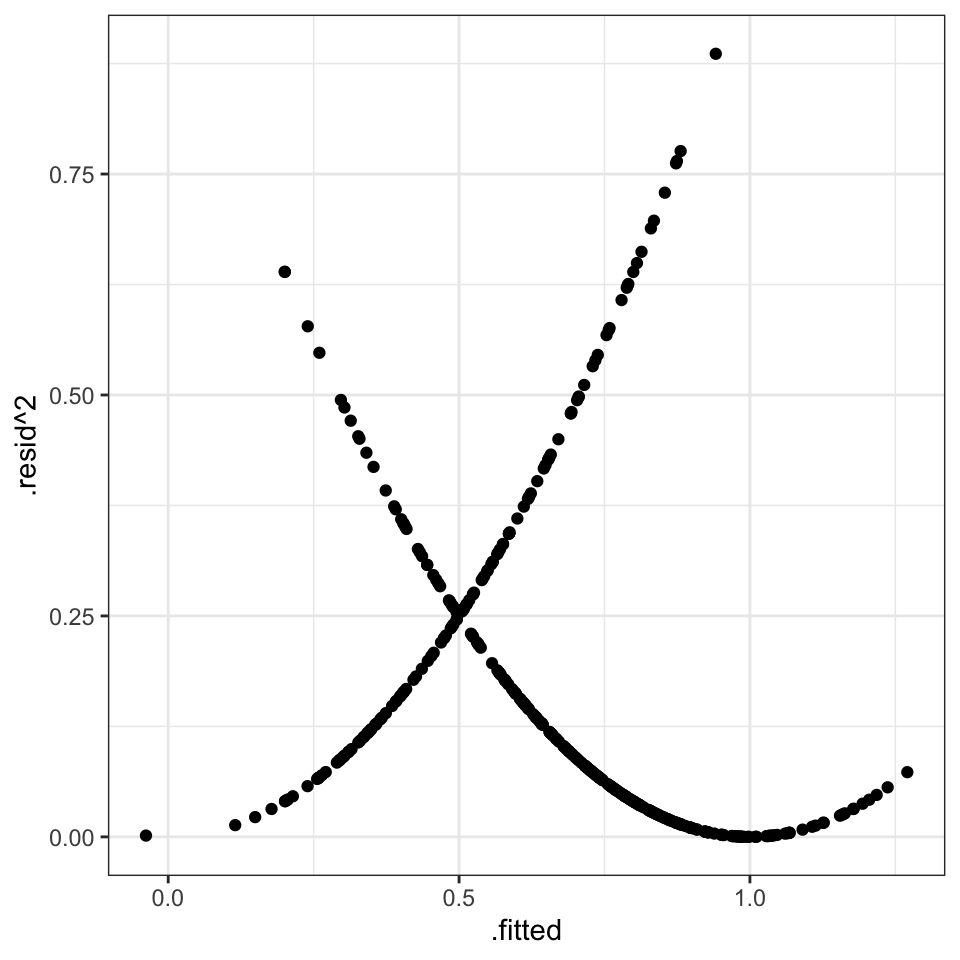
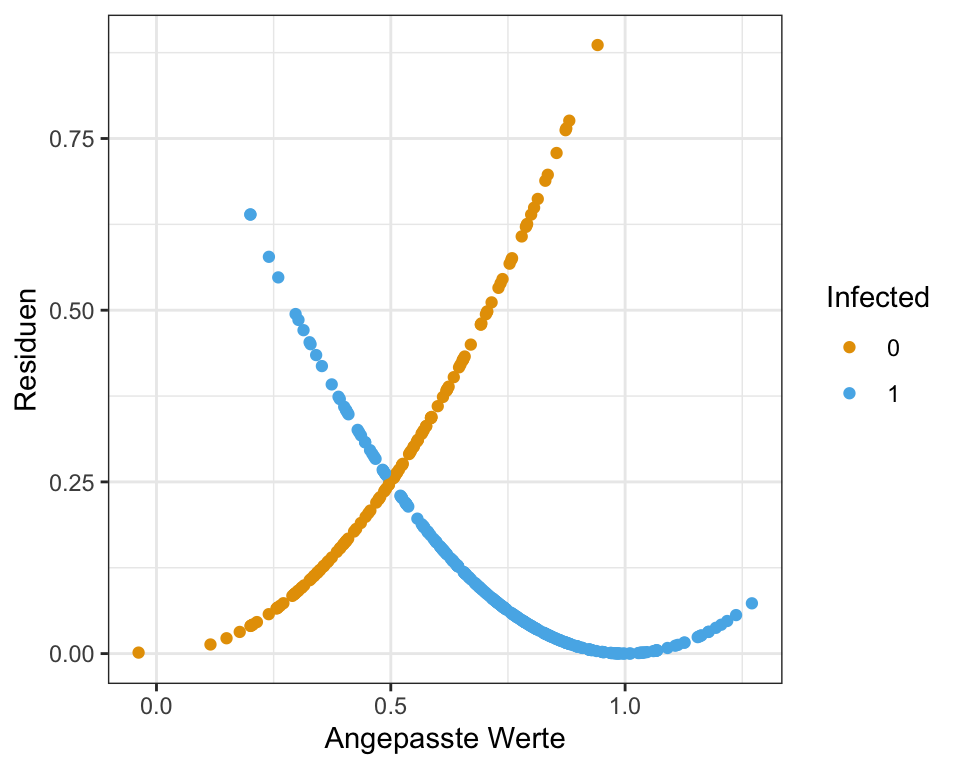
added text

diff --git a/docs/stat-modeling-prob-model.html b/docs/stat-modeling-prob-model.html
@@ -663,7 +663,7 @@ pre > code.sourceCode > span > a:first-child::before { text-decoration: underlin
   </div>
   
 
-</header><p><em>Version vom August 27, 2023 um 21:58:18</em></p>
+</header><p><em>Version vom August 28, 2023 um 13:33:11</em></p>
 <div class="quarto-figure quarto-figure-center">
 <figure class="figure"><p><img src="images/caution.png" class="img-fluid figure-img" style="width:50.0%"></p>
 </figure>
@@ -674,7 +674,8 @@ pre > code.sourceCode > span > a:first-child::before { text-decoration: underlin
 <span class="header-section-number">45.1</span> Genutzte R Pakete</h2>
 <p>Wir wollen folgende R Pakete in diesem Kapitel nutzen.</p>
 <div class="cell">
-<div class="sourceCode" id="cb1"><pre class="downlit sourceCode r code-with-copy"><code class="sourceCode R"><span><span class="fu">pacman</span><span class="fu">::</span><span class="fu"><a href="https://rdrr.io/pkg/pacman/man/p_load.html">p_load</a></span><span class="op">(</span><span class="va">tidyverse</span>, <span class="va">magrittr</span>, <span class="va">sandwich</span>, <span class="va">lmtest</span>, <span class="va">emmeans</span>, <span class="va">multcomp</span>,</span>
+<div class="sourceCode" id="cb1"><pre class="downlit sourceCode r code-with-copy"><code class="sourceCode R"><span><span class="fu">pacman</span><span class="fu">::</span><span class="fu"><a href="https://rdrr.io/pkg/pacman/man/p_load.html">p_load</a></span><span class="op">(</span><span class="va">tidyverse</span>, <span class="va">magrittr</span>, <span class="va">sandwich</span>, <span class="va">lmtest</span>, </span>
+<span>               <span class="va">emmeans</span>, <span class="va">multcomp</span>, <span class="va">see</span>,</span>
 <span>               <span class="va">performance</span>, <span class="va">broom</span>, <span class="va">conflicted</span><span class="op">)</span></span>
 <span><span class="fu">conflict_prefer</span><span class="op">(</span><span class="st">"select"</span>, <span class="st">"dplyr"</span><span class="op">)</span></span>
 <span><span class="fu">conflict_prefer</span><span class="op">(</span><span class="st">"filter"</span>, <span class="st">"dplyr"</span><span class="op">)</span></span>
@@ -688,7 +689,7 @@ pre > code.sourceCode > span > a:first-child::before { text-decoration: underlin
 <p>In diesem Kapitel nutzen wir die infizierten Ferkel als Beispieldatensatz. Wir haben in dem Datensatz über vierhundert Ferkel untersucht und festgehalten, ob die Ferkel infiziert sind (<span class="math inline">\(1\)</span>, ja) oder nicht infiziert (<span class="math inline">\(0\)</span>, nein). Wir haben daneben noch eine ganze Reihe von <em>Risiko</em>faktoren erhoben. Hier sieht man mal wieder wie wirr die Sprache der Statistik ist. Weil wir rausfinden wollen welche Variable das Risiko für die Infektion erhöht, nennen wir diese Variablen Risikofaktoren. Wir nehmen hier jetzt aber nicht alle Variablen mit, sondern nur die Variablen für den Entzündungswert <code>crp</code>, das Geschlecht <code>sex</code>, dem Alter <code>age</code> und der Gebrechlichkeitskategorie <code>frailty</code>.</p>
 <div class="cell">
 <div class="sourceCode" id="cb2"><pre class="downlit sourceCode r code-with-copy"><code class="sourceCode R"><span><span class="va">pig_tbl</span> <span class="op">&lt;-</span> <span class="fu">read_excel</span><span class="op">(</span><span class="st">"data/infected_pigs.xlsx"</span><span class="op">)</span> <span class="op">%&gt;%</span> </span>
-<span>  <span class="fu">select</span><span class="op">(</span><span class="va">infected</span>, <span class="va">crp</span>, <span class="va">sex</span>, <span class="va">age</span>, <span class="va">frailty</span><span class="op">)</span></span></code><button title="In die Zwischenablage kopieren" class="code-copy-button"><i class="bi"></i></button></pre></div>
+<span>  <span class="fu">select</span><span class="op">(</span><span class="va">infected</span>, <span class="va">crp</span>, <span class="va">sex</span>, <span class="va">age</span>, <span class="va">frailty</span><span class="op">)</span> </span></code><button title="In die Zwischenablage kopieren" class="code-copy-button"><i class="bi"></i></button></pre></div>
 </div>
 <p>Schauen wir uns nochmal einen Ausschnitt der Daten in der <a href="#tbl-lpm-pigs">Tabelle&nbsp;<span>45.1</span></a> an.</p>
 <div class="cell">
@@ -783,11 +784,11 @@ pre > code.sourceCode > span > a:first-child::before { text-decoration: underlin
 <div class="cell-output-display">
 <div id="fig-lpm-activity-01" class="quarto-figure quarto-figure-center anchored">
 <figure class="figure"><p><img src="stat-modeling-prob-model_files/figure-html/fig-lpm-activity-01-1.png" class="img-fluid figure-img" width="480"></p>
-<figcaption class="figure-caption">Abbildung&nbsp;45.1— Visualisierung des Zusammenhangs zwischen dem Infektionsstatus und der Aktivität der Ferkel.</figcaption></figure>
+<figcaption class="figure-caption">Abbildung&nbsp;45.1— Visualisierung des Zusammenhangs zwischen dem Infektionsstatus und den Entzündungswerten der Ferkel.</figcaption></figure>
 </div>
 </div>
 </div>
-<p>Tja und dann rechnen wir einfach eine Gaussian linear Regression mit der Funktion <code><a href="https://rdrr.io/r/stats/lm.html">lm()</a></code>. Es ergibt sich dann eine gerade Linie, wie wir sie in der <a href="#fig-lpm-activity-02">Abbildung&nbsp;<span>45.2</span></a> sehen. Da wir aber mi unserem Infektionsstatus auf <span class="math inline">\(0/1\)</span> begrenzt sind, aber eine Gerade nicht, haben wir das Problem, dass wir in diesem Fall den Infektionsstatus für CRP-Werte größer als 22 überschätzen.</p>
+<p>Tja und dann rechnen wir einfach eine Gaussian linear Regression mit der Funktion <code><a href="https://rdrr.io/r/stats/lm.html">lm()</a></code>. Es ergibt sich dann eine gerade Linie, wie wir sie in der <a href="#fig-lpm-activity-02">Abbildung&nbsp;<span>45.2</span></a> sehen. Da wir aber mi unserem Infektionsstatus auf <span class="math inline">\(0/1\)</span> begrenzt sind, aber eine Gerade nicht, haben wir das Problem, dass wir in diesem Fall den Infektionsstatus für CRP-Werte größer als 22 überschätzen. Ich meine mit überschätzen dann auch wirklich Werte zu erhalten, die es dann gar nicht geben kann. Es kann keinen Infektionsstatus über <em>ja</em> geben.</p>
 <div class="cell" data-layout-align="center">
 <div class="sourceCode" id="cb4"><pre class="downlit sourceCode r code-with-copy"><code class="sourceCode R"><span><span class="fu">ggplot</span><span class="op">(</span><span class="va">pig_tbl</span>, <span class="fu">aes</span><span class="op">(</span>x <span class="op">=</span> <span class="va">crp</span>, y <span class="op">=</span> <span class="va">infected</span><span class="op">)</span><span class="op">)</span> <span class="op">+</span></span>
 <span>  <span class="fu">theme_bw</span><span class="op">(</span><span class="op">)</span> <span class="op">+</span></span>
@@ -796,15 +797,19 @@ pre > code.sourceCode > span > a:first-child::before { text-decoration: underlin
 <div class="cell-output-display">
 <div id="fig-lpm-activity-02" class="quarto-figure quarto-figure-center anchored">
 <figure class="figure"><p><img src="stat-modeling-prob-model_files/figure-html/fig-lpm-activity-02-1.png" class="img-fluid figure-img" width="480"></p>
-<figcaption class="figure-caption">Abbildung&nbsp;45.2— Visualisierung des Zusammenhangs zwischen dem Infektionsstatus und der Aktivität der Ferkel.</figcaption></figure>
+<figcaption class="figure-caption">Abbildung&nbsp;45.2— Visualisierung des Zusammenhangs zwischen dem Infektionsstatus und den Entzündungswerten der Ferkel ergänzt um Gerade aus der Gaussian linearen Regression.</figcaption></figure>
 </div>
 </div>
 </div>
 </section><section id="modellierung" class="level2" data-number="45.4"><h2 data-number="45.4" class="anchored" data-anchor-id="modellierung">
 <span class="header-section-number">45.4</span> Modellierung</h2>
+<p>Dann können wir schon das <em>probability model</em> anpassen. Dazu nehmen wir die Funktion <code><a href="https://rdrr.io/r/stats/lm.html">lm()</a></code>, die wir auch für unsere Gaussian linearen Regression unter der Annahme eines normalverteilten Outocmes <span class="math inline">\(y\)</span> nutzen. Wichtig ist hier, dass wir auf keinen Fall unseren Infektionsstatus <code>infected</code> als einen Faktor übergeben. Der Infektionsstatus <code>infected</code> muss numerisch sein.</p>
 <div class="cell">
-<div class="sourceCode" id="cb5"><pre class="downlit sourceCode r code-with-copy"><code class="sourceCode R"><span><span class="va">lm_fit</span> <span class="op">&lt;-</span> <span class="fu"><a href="https://rdrr.io/r/stats/lm.html">lm</a></span><span class="op">(</span><span class="va">infected</span> <span class="op">~</span> <span class="va">crp</span> <span class="op">+</span> <span class="va">age</span> <span class="op">+</span> <span class="va">sex</span> <span class="op">+</span> <span class="va">frailty</span>, data <span class="op">=</span> <span class="va">pig_tbl</span><span class="op">)</span></span>
-<span><span class="va">lm_fit</span> <span class="op">%&gt;%</span> </span>
+<div class="sourceCode" id="cb5"><pre class="downlit sourceCode r code-with-copy"><code class="sourceCode R"><span><span class="va">lm_fit</span> <span class="op">&lt;-</span> <span class="fu"><a href="https://rdrr.io/r/stats/lm.html">lm</a></span><span class="op">(</span><span class="va">infected</span> <span class="op">~</span> <span class="va">crp</span> <span class="op">+</span> <span class="va">age</span> <span class="op">+</span> <span class="va">sex</span> <span class="op">+</span> <span class="va">frailty</span>, data <span class="op">=</span> <span class="va">pig_tbl</span><span class="op">)</span></span></code><button title="In die Zwischenablage kopieren" class="code-copy-button"><i class="bi"></i></button></pre></div>
+</div>
+<p>Schauen wir uns aber gleich mal die Modellausgabe an. Wie immer, du kannst alle Zahlen und Spalten in eine Funktion stecken und am Ende kommt dann was raus. Woher soll auch die Funktion wissen, dass es sich um einen Faktor handelt oder eine numerische Variable?</p>
+<div class="cell">
+<div class="sourceCode" id="cb6"><pre class="downlit sourceCode r code-with-copy"><code class="sourceCode R"><span><span class="va">lm_fit</span> <span class="op">%&gt;%</span> </span>
 <span>  <span class="va">summary</span></span></code><button title="In die Zwischenablage kopieren" class="code-copy-button"><i class="bi"></i></button></pre></div>
 <div class="cell-output cell-output-stdout">
 <pre><code>
@@ -831,76 +836,103 @@ Multiple R-squared:  0.2499,    Adjusted R-squared:  0.2406
 F-statistic: 27.05 on 5 and 406 DF,  p-value: &lt; 2.2e-16</code></pre>
 </div>
 </div>
+<p>Neben der sehr schlechten Modellgüte, die wir am Bestimmtheitsmaß <span class="math inline">\(R^2\)</span> mit 0.24 erkennen, sind aber die Residuen nach den deskriptiven Maßzahlen einigermaßen okay. Wir werden aber gleich noch sehen, dass die Maßzahlen hier auch trügen können. Was ist den nun das Tolle am <em>probability model</em>? Wir können die Effektschätzer <code>Estimate</code> direkt als prozentuale Veränderung interpretieren. Das heißt, wir können sagen, dass pro Einheit <code>crp</code> die Wahrscheinlichkeit infiziert zu sein um 16.2087% ansteigt. Das ist natürlich eine sehr schöne Eigenschaft. Nur leider gibt es da meistens dann doch ein Problem. Dafür schauen wir uns einmal die Spannweite der vorhergesagten Werte an.</p>
+<div class="cell">
+<div class="sourceCode" id="cb8"><pre class="downlit sourceCode r code-with-copy"><code class="sourceCode R"><span><span class="va">lm_fit</span> <span class="op">%&gt;%</span> </span>
+<span>  <span class="fu"><a href="https://rdrr.io/r/stats/predict.html">predict</a></span><span class="op">(</span><span class="op">)</span> <span class="op">%&gt;%</span> </span>
+<span>  <span class="fu"><a href="https://rdrr.io/r/base/range.html">range</a></span><span class="op">(</span><span class="op">)</span> <span class="op">%&gt;%</span> </span>
+<span>  <span class="fu"><a href="https://rdrr.io/r/base/Round.html">round</a></span><span class="op">(</span><span class="fl">2</span><span class="op">)</span></span></code><button title="In die Zwischenablage kopieren" class="code-copy-button"><i class="bi"></i></button></pre></div>
+<div class="cell-output cell-output-stdout">
+<pre><code>[1] -0.04  1.27</code></pre>
+</div>
+</div>
+<p>Wie du siehst, kriegen wir Werte größer als Eins und kleiner als Null aus dem Modell raus. Das macht jetzt aber recht wenig Sinn. Wir können die Werte aus <code><a href="https://rdrr.io/r/stats/predict.html">predict()</a></code> als Wahrscheinlichkeit infiziert zu sein interpretieren. Da unsere Ferkel aber nur gesund oder krank sein können, machen negative Werte der Wahrscheinlichkeit infiziert zu sein keinen Sinn. Auch Werte größer als Eins können wir nur sehr schwer interpretieren.</p>
 </section><section id="varianzheterogenität" class="level2" data-number="45.5"><h2 data-number="45.5" class="anchored" data-anchor-id="varianzheterogenität">
 <span class="header-section-number">45.5</span> Varianzheterogenität</h2>
-<p>Heteroskedastizität, auch Varianzheterogenität oder Heteroskedastie, bedeutet in der Statistik, dass die Varianz der Störterme nicht konstant ist.</p>
+<p>Wenn du das <em>probability model</em> durchführst, dann hast du in den meisten Fällen das Problem der Heteroskedastizität, auch Varianzheterogenität genannt. Oder in anderen Worten, die Residuen als Fehler unseres Modell sind nicht gleichmäßig mit gleich großen Werten verteilt um die Gerade. Gut, dass klingt jetzt etwas sperrig, hier einmal die <a href="#fig-lpm-var-hetero">Abbildung&nbsp;<span>45.3</span></a> um es besser zu verstehen.</p>
+<div class="cell" data-layout-align="center">
+<div class="cell-output-display">
+<div id="fig-lpm-var-hetero" class="quarto-figure quarto-figure-center anchored">
+<figure class="figure"><p><img src="stat-modeling-prob-model_files/figure-html/fig-lpm-var-hetero-1.png" class="img-fluid figure-img" width="480"></p>
+<figcaption class="figure-caption">Abbildung&nbsp;45.3— Varianzheterogenität oder Heteroskedastizität in den Daten. Die Abstände der Punkte zu der Geraden, die Residuen, werden immer größer. Wir haben keinen konstanten oder homogenen Fehler.</figcaption></figure>
+</div>
+</div>
+</div>
+<p>Für unser Modell <code>lm_fit</code> von oben können wir auch gleich die Funktion <code>check_heteroscedasticity()</code> aus dem R Paket <code>performance</code> nutzen um zu Überprüfen ob wir Varianzheterogenität vorliegen haben. Aber Achtung, ich wäre hier sehr vorsichtig, wenn die Funktion sagt, dass wir keine Varianzheterogenität vorliegen haben.</p>
 <div class="cell">
-<div class="sourceCode" id="cb7"><pre class="downlit sourceCode r code-with-copy"><code class="sourceCode R"><span><span class="fu">check_heteroscedasticity</span><span class="op">(</span><span class="va">lm_fit</span><span class="op">)</span></span></code><button title="In die Zwischenablage kopieren" class="code-copy-button"><i class="bi"></i></button></pre></div>
+<div class="sourceCode" id="cb10"><pre class="downlit sourceCode r code-with-copy"><code class="sourceCode R"><span><span class="fu">check_heteroscedasticity</span><span class="op">(</span><span class="va">lm_fit</span><span class="op">)</span></span></code><button title="In die Zwischenablage kopieren" class="code-copy-button"><i class="bi"></i></button></pre></div>
 <div class="cell-output cell-output-stdout">
 <pre><code>Warning: Heteroscedasticity (non-constant error variance) detected (p &lt; .001).</code></pre>
 </div>
 </div>
+<p>Neben der Funktion <code>check_heteroscedasticity()</code> gibt es auch die Möglichkeit über <code>check_model()</code> sich die Varianzen und damit die Residuen einmal anzuschauen. Die visuelle Überprüfung ist auf jeden Fall Pflicht. Und wie du in der <a href="#fig-lpm-02">Abbildung&nbsp;<span>45.4</span></a> siehst, sind die Varianzen weder homogen noch irgendwie normalverteilt. Wir gehen also von Varianzheterogenität aus. Damit liegen wir in Linie mit der Funktion <code>check_heteroscedasticity()</code>, aber das muss nicht immer unbedingt sein. Besonders bei kleiner Fallzahl, kann es vorkommen, dass <code>check_heteroscedasticity()</code> eine Varianzheterogenität übersieht.</p>
 <div class="cell" data-layout-align="center">
-<div class="sourceCode" id="cb9"><pre class="downlit sourceCode r code-with-copy"><code class="sourceCode R"><span><span class="va">lm_fit</span> <span class="op">%&gt;%</span> </span>
-<span>  <span class="fu">augment</span><span class="op">(</span><span class="op">)</span> <span class="op">%&gt;%</span> </span>
-<span>  <span class="fu">ggplot</span><span class="op">(</span><span class="fu">aes</span><span class="op">(</span>x <span class="op">=</span> <span class="va">.fitted</span>, y <span class="op">=</span> <span class="va">.resid</span><span class="op">^</span><span class="fl">2</span><span class="op">)</span><span class="op">)</span> <span class="op">+</span></span>
-<span>  <span class="fu">theme_bw</span><span class="op">(</span><span class="op">)</span> <span class="op">+</span></span>
-<span>  <span class="fu">geom_point</span><span class="op">(</span><span class="op">)</span></span></code><button title="In die Zwischenablage kopieren" class="code-copy-button"><i class="bi"></i></button></pre></div>
-<div class="cell-output-display">
-<div id="fig-lpm-01a" class="quarto-figure quarto-figure-center anchored">
-<figure class="figure"><p><img src="stat-modeling-prob-model_files/figure-html/fig-lpm-01a-1.png" class="img-fluid figure-img" width="480"></p>
-<figcaption class="figure-caption">Abbildung&nbsp;45.3— Ausgabe ausgewählter Modelgüteplots der Funktion <code>check_model()</code>.</figcaption></figure>
-</div>
-</div>
-</div>
-<div class="cell" data-layout-align="center">
-<div class="sourceCode" id="cb10"><pre class="downlit sourceCode r code-with-copy"><code class="sourceCode R"><span><span class="fu">check_model</span><span class="op">(</span><span class="va">lm_fit</span>, check <span class="op">=</span> <span class="fu"><a href="https://rdrr.io/r/base/c.html">c</a></span><span class="op">(</span><span class="st">"homogeneity"</span>, <span class="st">"normality"</span><span class="op">)</span><span class="op">)</span></span></code><button title="In die Zwischenablage kopieren" class="code-copy-button"><i class="bi"></i></button></pre></div>
+<div class="sourceCode" id="cb12"><pre class="downlit sourceCode r code-with-copy"><code class="sourceCode R"><span><span class="fu">check_model</span><span class="op">(</span><span class="va">lm_fit</span>, check <span class="op">=</span> <span class="fu"><a href="https://rdrr.io/r/base/c.html">c</a></span><span class="op">(</span><span class="st">"homogeneity"</span>, <span class="st">"normality"</span><span class="op">)</span><span class="op">)</span></span></code><button title="In die Zwischenablage kopieren" class="code-copy-button"><i class="bi"></i></button></pre></div>
 <div class="cell-output-display">
 <div id="fig-lpm-02" class="quarto-figure quarto-figure-center anchored">
 <figure class="figure"><p><img src="stat-modeling-prob-model_files/figure-html/fig-lpm-02-1.png" class="img-fluid figure-img" width="960"></p>
-<figcaption class="figure-caption">Abbildung&nbsp;45.4— Ausgabe ausgewählter Modelgüteplots der Funktion <code>check_model()</code>.</figcaption></figure>
+<figcaption class="figure-caption">Abbildung&nbsp;45.4— Überprüfung der Varianzhomogeniutät des Modells <code>lm_fit</code> mit der Funktion <code>check_model()</code>. Wir sehen hier eine klare Varianzheterogenität in dem Modell.</figcaption></figure>
+</div>
+</div>
+</div>
+<p>Jetzt kann man sich fragen, warum sind denn da so Bögen drin? Das kommt von den Abständen der Punkte auf den beiden Ebenen. Die Gerade läuft ja durch einen Bereich in dem keine Beobachtungen sind. Daher ist am Anfang der Abstand zu einer der beiden Ebenen, entweder der Null oder der Eins, minimal und erhöht sich dann langsam. Weil ja nicht alle Beobachtungen alle bei Null sind springen die Abstände von klein zu groß. In <a href="#fig-lpm-01a">Abbildung&nbsp;<span>45.5</span></a> siehst du nochmal den Zusammenhang. Unsere angepasste Gerade steigt ja an, wie du in <a href="#fig-lpm-activity-02">Abbildung&nbsp;<span>45.2</span></a> siehst. Daher sind die Abstände zu den Null Werten am Anfang sehr klein und stiegen dann an. Sobald die erste Beobachtung mit einem Infektionsstatus von Eins auftaucht, springt der Abstand natürlich sofort nach oben. Werte größer als Eins dürfte es auf der x-Achse gar nicht geben, den dort werden dann Werte größer als Eins geschätzt.</p>
+<div class="cell" data-layout-align="center">
+<div class="sourceCode" id="cb13"><pre class="downlit sourceCode r code-with-copy"><code class="sourceCode R"><span><span class="va">lm_fit</span> <span class="op">%&gt;%</span> </span>
+<span>  <span class="fu">augment</span><span class="op">(</span><span class="op">)</span> <span class="op">%&gt;%</span> </span>
+<span>  <span class="fu">ggplot</span><span class="op">(</span><span class="fu">aes</span><span class="op">(</span>x <span class="op">=</span> <span class="va">.fitted</span>, y <span class="op">=</span> <span class="va">.resid</span><span class="op">^</span><span class="fl">2</span>, color <span class="op">=</span> <span class="fu">as_factor</span><span class="op">(</span><span class="va">infected</span><span class="op">)</span><span class="op">)</span><span class="op">)</span> <span class="op">+</span></span>
+<span>  <span class="fu">theme_bw</span><span class="op">(</span><span class="op">)</span> <span class="op">+</span></span>
+<span>  <span class="fu">geom_point</span><span class="op">(</span><span class="op">)</span> <span class="op">+</span></span>
+<span>  <span class="fu">labs</span><span class="op">(</span>x <span class="op">=</span> <span class="st">"Angepasste Werte"</span>, y <span class="op">=</span> <span class="st">"Residuen"</span>, color <span class="op">=</span> <span class="st">"Infected"</span><span class="op">)</span> <span class="op">+</span></span>
+<span>  <span class="fu">scale_color_okabeito</span><span class="op">(</span><span class="op">)</span></span></code><button title="In die Zwischenablage kopieren" class="code-copy-button"><i class="bi"></i></button></pre></div>
+<div class="cell-output-display">
+<div id="fig-lpm-01a" class="quarto-figure quarto-figure-center anchored">
+<figure class="figure"><p><img src="stat-modeling-prob-model_files/figure-html/fig-lpm-01a-1.png" class="img-fluid figure-img" width="480"></p>
+<figcaption class="figure-caption">Abbildung&nbsp;45.5— Etwas andere Darstellung der angepassten Werte <code>.fitted</code> und der Residuen <code>.resid</code> aus dem Modell <code>lm_fit</code>. Die Punkte sind nach dem Infektionsstatus eingefärbt.</figcaption></figure>
 </div>
 </div>
 </div>
 </section><section id="interpretation-des-modells" class="level2" data-number="45.6"><h2 data-number="45.6" class="anchored" data-anchor-id="interpretation-des-modells">
 <span class="header-section-number">45.6</span> Interpretation des Modells</h2>
+<p>Wir haben ja schon einmal weiter oben in das Modell geschaut und eine Interpretation vorgenommen. Wir erinnern uns, wir können die Effektschätzer <code>Estimate</code> aus einem <em>probability model</em> direkt als prozentuale Veränderung interpretieren. Das heißt, wir können sagen, dass pro Einheit <code>crp</code> die Wahrscheinlichkeit infiziert zu sein um 16.2087% ansteigt. Das ist natürlich eine sehr schöne Eigenschaft. Dann haben wir auch noch gleich die Richtung mit drin, wenn wir also negative Effekte haben, dann senkt die Variable das Risiko pro Einheit um den prozentualen Wert. Bei kategoriellen Variablen haben wir dann den Unterschied zu der nicht vorhandenen Gruppe. Daher sind männliche Ferkel um 5% <em>weniger</em> infiziert als weibliche Ferkel. Leider geht der t-Test, der die <span class="math inline">\(p\)</span>-Werte produztiert, von homogenen Varianzen aus. Die haben wir aber nicht vorliegen.</p>
 <div class="cell">
-<div class="sourceCode" id="cb11"><pre class="downlit sourceCode r code-with-copy"><code class="sourceCode R"><span><span class="va">lm_fit</span> <span class="op">%&gt;%</span> </span>
+<div class="sourceCode" id="cb14"><pre class="downlit sourceCode r code-with-copy"><code class="sourceCode R"><span><span class="va">lm_fit</span> <span class="op">%&gt;%</span> </span>
 <span>  <span class="fu"><a href="https://rdrr.io/r/base/summary.html">summary</a></span><span class="op">(</span><span class="op">)</span> <span class="op">%&gt;%</span> </span>
-<span>  <span class="fu">pluck</span><span class="op">(</span><span class="st">"coefficients"</span><span class="op">)</span> </span></code><button title="In die Zwischenablage kopieren" class="code-copy-button"><i class="bi"></i></button></pre></div>
+<span>  <span class="fu">pluck</span><span class="op">(</span><span class="st">"coefficients"</span><span class="op">)</span> <span class="op">%&gt;%</span> </span>
+<span>  <span class="fu"><a href="https://rdrr.io/r/base/Round.html">round</a></span><span class="op">(</span><span class="fl">4</span><span class="op">)</span></span></code><button title="In die Zwischenablage kopieren" class="code-copy-button"><i class="bi"></i></button></pre></div>
 <div class="cell-output cell-output-stdout">
-<pre><code>                    Estimate  Std. Error    t value     Pr(&gt;|t|)
-(Intercept)      -2.64869344 0.411293703 -6.4399076 3.382867e-10
-crp               0.16208689 0.014160082 11.4467486 1.745369e-26
-age               0.00146770 0.004521983  0.3245699 7.456738e-01
-sexmale          -0.04767320 0.041556186 -1.1471987 2.519751e-01
-frailtypre-frail  0.03827509 0.065363172  0.5855758 5.584860e-01
-frailtyrobust    -0.01154424 0.062064625 -0.1860035 8.525349e-01</code></pre>
+<pre><code>                 Estimate Std. Error t value Pr(&gt;|t|)
+(Intercept)       -2.6487     0.4113 -6.4399   0.0000
+crp                0.1621     0.0142 11.4467   0.0000
+age                0.0015     0.0045  0.3246   0.7457
+sexmale           -0.0477     0.0416 -1.1472   0.2520
+frailtypre-frail   0.0383     0.0654  0.5856   0.5585
+frailtyrobust     -0.0115     0.0621 -0.1860   0.8525</code></pre>
 </div>
 </div>
+<p>Deshalb müssen wir nochmal ran. Wir können die Funktion <code>coeftest()</code> aus dem R Paket <code>lmtest</code> zusammen mit den R Paket <code>sandwich</code> nutzen um unsere Modellanpassung für die Varianzheterogenität zu adjustieren. Wir ändern also die Spalte <code>Strd. Error</code>. Es gibt aber sehr viele Möglichkeiten <code>type</code> die Varianz anzupassen. Das ist ein eigenes Kapitel worum wir uns hier nicht scheren. Wir nehmen mehr oder minder den Standard mit <code>HC1</code>.</p>
 <div class="cell">
-<div class="sourceCode" id="cb13"><pre class="downlit sourceCode r code-with-copy"><code class="sourceCode R"><span><span class="va">lm_fit</span> <span class="op">%&gt;%</span> </span>
-<span>  <span class="fu">coeftest</span><span class="op">(</span>vcov. <span class="op">=</span> <span class="va">vcovHC</span>, type <span class="op">=</span> <span class="st">"HC1"</span><span class="op">)</span></span></code><button title="In die Zwischenablage kopieren" class="code-copy-button"><i class="bi"></i></button></pre></div>
+<div class="sourceCode" id="cb16"><pre class="downlit sourceCode r code-with-copy"><code class="sourceCode R"><span><span class="va">lm_fit</span> <span class="op">%&gt;%</span> </span>
+<span>  <span class="fu">coeftest</span><span class="op">(</span>vcov. <span class="op">=</span> <span class="va">vcovHC</span>, type <span class="op">=</span> <span class="st">"HC1"</span><span class="op">)</span> <span class="op">%&gt;%</span> </span>
+<span>  <span class="fu"><a href="https://rdrr.io/r/base/Round.html">round</a></span><span class="op">(</span><span class="fl">4</span><span class="op">)</span> <span class="op">%&gt;%</span> </span>
+<span>  <span class="fu">tidy</span><span class="op">(</span><span class="op">)</span></span></code><button title="In die Zwischenablage kopieren" class="code-copy-button"><i class="bi"></i></button></pre></div>
 <div class="cell-output cell-output-stdout">
-<pre><code>
-t test of coefficients:
-
-                   Estimate Std. Error t value  Pr(&gt;|t|)    
-(Intercept)      -2.6486934  0.3924482 -6.7492  5.15e-11 ***
-crp               0.1620869  0.0121283 13.3644 &lt; 2.2e-16 ***
-age               0.0014677  0.0045014  0.3261    0.7446    
-sexmale          -0.0476732  0.0410864 -1.1603    0.2466    
-frailtypre-frail  0.0382751  0.0597786  0.6403    0.5224    
-frailtyrobust    -0.0115442  0.0559016 -0.2065    0.8365    
----
-Signif. codes:  0 '***' 0.001 '**' 0.01 '*' 0.05 '.' 0.1 ' ' 1</code></pre>
+<pre><code># A tibble: 6 × 5
+  term             estimate std.error statistic p.value
+  &lt;chr&gt;               &lt;dbl&gt;     &lt;dbl&gt;     &lt;dbl&gt;   &lt;dbl&gt;
+1 (Intercept)       -2.65      0.392     -6.75    0    
+2 crp                0.162     0.0121    13.4     0    
+3 age                0.0015    0.0045     0.326   0.745
+4 sexmale           -0.0477    0.0411    -1.16    0.247
+5 frailtypre-frail   0.0383    0.0598     0.640   0.522
+6 frailtyrobust     -0.0115    0.0559    -0.206   0.836</code></pre>
 </div>
 </div>
+<p>Wir schauen also als erstes auf den Standardfehler und sehen, dass unsere Gaussian lineare Regression (OLS) den Standardfehler als zu hoch geschätzt hat. Größer Standardfehler bedeutet kleinere Teststatistik und damit dann auch weniger signifikante <span class="math inline">\(p\)</span>-Werte. In der <a href="#tbl-lpm-comp">Tabelle&nbsp;<span>45.2</span></a> siehst du nochmal die beiden Spalten der Standardfehler nebeneinander. Unser Sandwich-Schätzer (HC1) liefert da die besseren Fehlerterme, die eher der Realität der Varianzheterogenität entsprechen. Wir brauchen die adjustierten Standardfehler aber nur, wenn wir eine statistischen Test rechnen wollen und den <span class="math inline">\(p\)</span>-Wert für die Bewertung der Signifikanz brauchen.</p>
 <div class="cell">
 <div class="cell-output-display">
 <div id="tbl-lpm-comp" class="anchored">
 <table class="table table-sm table-striped small">
-<caption>Tabelle&nbsp;45.2— foo</caption>
+<caption>Tabelle&nbsp;45.2— Vergleich der Standardfehler der Gaussian linear Regression mit der Annahme der homogenen Varianzen (OLS) und die Adjusterung der Fehler mit dem Sandwich-Schätzer (HC1).</caption>
 <thead><tr class="header">
 <th style="text-align: left;"></th>
 <th style="text-align: center;">OLS</th>
@@ -944,8 +976,10 @@ Signif. codes:  0 '***' 0.001 '**' 0.01 '*' 0.05 '.' 0.1 ' ' 1</code></pre>
 </div>
 </section><section id="gruppenvergleich" class="level2" data-number="45.7"><h2 data-number="45.7" class="anchored" data-anchor-id="gruppenvergleich">
 <span class="header-section-number">45.7</span> Gruppenvergleich</h2>
+<p>Häufig ist es ja so, dass wir das Modell nur schätzen um dann einen Gruppenvergleich zu rechnen. Das heißt, dass es uns interessiert, ob es einen Unterschied zwischen den Leveln eines Faktors gegeben dem Outcome <span class="math inline">\(y\)</span> gibt. Wir machen den Gurppenvergleich jetzt einmal an der Gebrechlichkeit <code>frailty</code> einmal durch. Wir habe die drei Gruppen <code>frail</code>, <code>pre-frail</code> und <code>robust</code> vorliegen. Danach schauen wir uns nochmal die prinzipielle Idee des Gruppenvergleichs auf mittleren Wahrscheinlichkeiten infiziert zu sein an.</p>
+<p>Eigentlich ist es recht einfach. Wir nehmen wieder unser lineares Modell, was wir oben schon angepasst haben. Wir schicken dann das Modell in die Funktion <code>emmeans()</code> um die Gruppenvergleiche zu rechnen. Jetzt müssen wir nur zwei Dinge noch machen. Zum einen wollen wir alle paarweisen Vergleiche zwischen den drei Leveln von dem Faktor <code>frailty</code> rechnen, deshalb setzen wir <code>method = "pairwise"</code>. Dann müssen wir noch dafür sorgen, dass wir nicht homogene Varianzen schätzen. Deshalb setzen wir die Option <code>vcov. = sandwich::vcovHAC</code>. Damit wählen wir aus dem Paket <code>sabdwich</code> den Sandwichschätzer <code>vcovHAC</code>. Wenn du das Paket <code>sandwich</code> schon geladen hast, dann musst due das Peket nicht mit Doppelpunkt vor die Funktion des Sandwich-Schätzers setzen.</p>
 <div class="cell">
-<div class="sourceCode" id="cb15"><pre class="downlit sourceCode r code-with-copy"><code class="sourceCode R"><span><span class="va">em_obj</span> <span class="op">&lt;-</span> <span class="va">lm_fit</span> <span class="op">%&gt;%</span> </span>
+<div class="sourceCode" id="cb18"><pre class="downlit sourceCode r code-with-copy"><code class="sourceCode R"><span><span class="va">em_obj</span> <span class="op">&lt;-</span> <span class="va">lm_fit</span> <span class="op">%&gt;%</span> </span>
 <span>  <span class="fu">emmeans</span><span class="op">(</span><span class="op">~</span> <span class="va">frailty</span>, method <span class="op">=</span> <span class="st">"pairwise"</span>, vcov. <span class="op">=</span> <span class="fu">sandwich</span><span class="fu">::</span><span class="va"><a href="https://sandwich.R-Forge.R-project.org/reference/vcovHAC.html">vcovHAC</a></span><span class="op">)</span></span>
 <span><span class="va">em_obj</span></span></code><button title="In die Zwischenablage kopieren" class="code-copy-button"><i class="bi"></i></button></pre></div>
 <div class="cell-output cell-output-stdout">
@@ -959,7 +993,7 @@ Confidence level used: 0.95 </code></pre>
 </div>
 </div>
 <div class="cell">
-<div class="sourceCode" id="cb17"><pre class="downlit sourceCode r code-with-copy"><code class="sourceCode R"><span><span class="va">em_obj</span> <span class="op">%&gt;%</span> </span>
+<div class="sourceCode" id="cb20"><pre class="downlit sourceCode r code-with-copy"><code class="sourceCode R"><span><span class="va">em_obj</span> <span class="op">%&gt;%</span> </span>
 <span>  <span class="fu">contrast</span><span class="op">(</span>method <span class="op">=</span> <span class="st">"pairwise"</span>, adjust <span class="op">=</span> <span class="st">"bonferroni"</span><span class="op">)</span></span></code><button title="In die Zwischenablage kopieren" class="code-copy-button"><i class="bi"></i></button></pre></div>
 <div class="cell-output cell-output-stdout">
 <pre><code> contrast             estimate     SE  df t.ratio p.value
@@ -972,7 +1006,7 @@ P value adjustment: bonferroni method for 3 tests </code></pre>
 </div>
 </div>
 <div class="cell">
-<div class="sourceCode" id="cb19"><pre class="downlit sourceCode r code-with-copy"><code class="sourceCode R"><span><span class="va">em_obj</span> <span class="op">%&gt;%</span></span>
+<div class="sourceCode" id="cb22"><pre class="downlit sourceCode r code-with-copy"><code class="sourceCode R"><span><span class="va">em_obj</span> <span class="op">%&gt;%</span></span>
 <span>  <span class="fu">cld</span><span class="op">(</span>Letters <span class="op">=</span> <span class="va">letters</span>, adjust <span class="op">=</span> <span class="st">"none"</span><span class="op">)</span></span></code><button title="In die Zwischenablage kopieren" class="code-copy-button"><i class="bi"></i></button></pre></div>
 <div class="cell-output cell-output-stdout">
 <pre><code> frailty   emmean     SE  df lower.CL upper.CL .group
@@ -989,7 +1023,7 @@ NOTE: If two or more means share the same grouping symbol,
 </div>
 </div>
 <div class="cell">
-<div class="sourceCode" id="cb21"><pre class="downlit sourceCode r code-with-copy"><code class="sourceCode R"><span><span class="va">n_grp</span> <span class="op">&lt;-</span> <span class="fl">10</span></span>
+<div class="sourceCode" id="cb24"><pre class="downlit sourceCode r code-with-copy"><code class="sourceCode R"><span><span class="va">n_grp</span> <span class="op">&lt;-</span> <span class="fl">10</span></span>
 <span><span class="va">toy_tbl</span> <span class="op">&lt;-</span> <span class="fu">tibble</span><span class="op">(</span>trt <span class="op">=</span> <span class="fu"><a href="https://rdrr.io/r/base/gl.html">gl</a></span><span class="op">(</span><span class="fl">3</span>, <span class="va">n_grp</span>, labels <span class="op">=</span> <span class="fu"><a href="https://rdrr.io/r/base/c.html">c</a></span><span class="op">(</span><span class="st">"ctrl"</span>, <span class="st">"roundUp"</span>, <span class="st">"killAll"</span><span class="op">)</span><span class="op">)</span>,</span>
 <span>                  infected <span class="op">=</span> <span class="fu"><a href="https://rdrr.io/r/base/c.html">c</a></span><span class="op">(</span><span class="fu"><a href="https://rdrr.io/r/stats/Binomial.html">rbinom</a></span><span class="op">(</span><span class="va">n_grp</span>, <span class="fl">1</span>, <span class="fl">0.8</span><span class="op">)</span>, <span class="fu"><a href="https://rdrr.io/r/stats/Binomial.html">rbinom</a></span><span class="op">(</span><span class="va">n_grp</span>, <span class="fl">1</span>, <span class="fl">0.5</span><span class="op">)</span>, <span class="fu"><a href="https://rdrr.io/r/stats/Binomial.html">rbinom</a></span><span class="op">(</span><span class="va">n_grp</span>, <span class="fl">1</span>, <span class="fl">0.3</span><span class="op">)</span><span class="op">)</span><span class="op">)</span></span>
 <span></span>
@@ -999,9 +1033,9 @@ NOTE: If two or more means share the same grouping symbol,
    trt   infected
    &lt;fct&gt;    &lt;int&gt;
  1 ctrl         1
- 2 ctrl         1
+ 2 ctrl         0
  3 ctrl         1
- 4 ctrl         1
+ 4 ctrl         0
  5 ctrl         1
  6 ctrl         1
  7 ctrl         1
@@ -1012,7 +1046,7 @@ NOTE: If two or more means share the same grouping symbol,
 </div>
 </div>
 <div class="cell">
-<div class="sourceCode" id="cb23"><pre class="downlit sourceCode r code-with-copy"><code class="sourceCode R"><span><span class="va">fit</span> <span class="op">&lt;-</span> <span class="fu"><a href="https://rdrr.io/r/stats/lm.html">lm</a></span><span class="op">(</span><span class="va">infected</span> <span class="op">~</span> <span class="va">trt</span>, data <span class="op">=</span> <span class="va">toy_tbl</span><span class="op">)</span></span>
+<div class="sourceCode" id="cb26"><pre class="downlit sourceCode r code-with-copy"><code class="sourceCode R"><span><span class="va">fit</span> <span class="op">&lt;-</span> <span class="fu"><a href="https://rdrr.io/r/stats/lm.html">lm</a></span><span class="op">(</span><span class="va">infected</span> <span class="op">~</span> <span class="va">trt</span>, data <span class="op">=</span> <span class="va">toy_tbl</span><span class="op">)</span></span>
 <span><span class="va">fit</span></span></code><button title="In die Zwischenablage kopieren" class="code-copy-button"><i class="bi"></i></button></pre></div>
 <div class="cell-output cell-output-stdout">
 <pre><code>
@@ -1021,51 +1055,51 @@ lm(formula = infected ~ trt, data = toy_tbl)
 
 Coefficients:
 (Intercept)   trtroundUp   trtkillAll  
-        1.0         -0.6         -0.6  </code></pre>
+        0.8         -0.4         -0.4  </code></pre>
 </div>
 </div>
 <div class="cell">
-<div class="sourceCode" id="cb25"><pre class="downlit sourceCode r code-with-copy"><code class="sourceCode R"><span><span class="fu">check_heteroscedasticity</span><span class="op">(</span><span class="va">fit</span><span class="op">)</span></span></code><button title="In die Zwischenablage kopieren" class="code-copy-button"><i class="bi"></i></button></pre></div>
+<div class="sourceCode" id="cb28"><pre class="downlit sourceCode r code-with-copy"><code class="sourceCode R"><span><span class="fu">check_heteroscedasticity</span><span class="op">(</span><span class="va">fit</span><span class="op">)</span></span></code><button title="In die Zwischenablage kopieren" class="code-copy-button"><i class="bi"></i></button></pre></div>
 <div class="cell-output cell-output-stdout">
-<pre><code>Warning: Heteroscedasticity (non-constant error variance) detected (p = 0.006).</code></pre>
+<pre><code>OK: Error variance appears to be homoscedastic (p = 0.494).</code></pre>
 </div>
 </div>
 <div class="cell">
-<div class="sourceCode" id="cb27"><pre class="downlit sourceCode r code-with-copy"><code class="sourceCode R"><span><span class="fu">coeftest</span><span class="op">(</span><span class="va">fit</span>, vcov. <span class="op">=</span> <span class="va">vcovHC</span>, type <span class="op">=</span> <span class="st">"HC1"</span><span class="op">)</span></span></code><button title="In die Zwischenablage kopieren" class="code-copy-button"><i class="bi"></i></button></pre></div>
+<div class="sourceCode" id="cb30"><pre class="downlit sourceCode r code-with-copy"><code class="sourceCode R"><span><span class="fu">coeftest</span><span class="op">(</span><span class="va">fit</span>, vcov. <span class="op">=</span> <span class="va">vcovHC</span>, type <span class="op">=</span> <span class="st">"HC1"</span><span class="op">)</span></span></code><button title="In die Zwischenablage kopieren" class="code-copy-button"><i class="bi"></i></button></pre></div>
 <div class="cell-output cell-output-stdout">
 <pre><code>
 t test of coefficients:
 
-               Estimate  Std. Error     t value  Pr(&gt;|t|)    
-(Intercept)  1.0000e+00  4.8253e-09  2.0724e+08 &lt; 2.2e-16 ***
-trtroundUp  -6.0000e-01  1.6330e-01 -3.6742e+00  0.001041 ** 
-trtkillAll  -6.0000e-01  1.6330e-01 -3.6742e+00  0.001041 ** 
+            Estimate Std. Error t value  Pr(&gt;|t|)    
+(Intercept)  0.80000    0.13333  6.0000 2.116e-06 ***
+trtroundUp  -0.40000    0.21082 -1.8974   0.06852 .  
+trtkillAll  -0.40000    0.21082 -1.8974   0.06852 .  
 ---
 Signif. codes:  0 '***' 0.001 '**' 0.01 '*' 0.05 '.' 0.1 ' ' 1</code></pre>
 </div>
 </div>
 <div class="cell">
-<div class="sourceCode" id="cb29"><pre class="downlit sourceCode r code-with-copy"><code class="sourceCode R"><span><span class="va">em_obj</span> <span class="op">&lt;-</span> <span class="va">fit</span> <span class="op">%&gt;%</span> </span>
+<div class="sourceCode" id="cb32"><pre class="downlit sourceCode r code-with-copy"><code class="sourceCode R"><span><span class="va">em_obj</span> <span class="op">&lt;-</span> <span class="va">fit</span> <span class="op">%&gt;%</span> </span>
 <span>  <span class="fu">emmeans</span><span class="op">(</span><span class="op">~</span> <span class="va">trt</span>, method <span class="op">=</span> <span class="st">"pairwise"</span>, vcov. <span class="op">=</span> <span class="fu">sandwich</span><span class="fu">::</span><span class="va"><a href="https://sandwich.R-Forge.R-project.org/reference/vcovHAC.html">vcovHAC</a></span><span class="op">)</span></span></code><button title="In die Zwischenablage kopieren" class="code-copy-button"><i class="bi"></i></button></pre></div>
 </div>
 <div class="cell">
-<div class="sourceCode" id="cb30"><pre class="downlit sourceCode r code-with-copy"><code class="sourceCode R"><span><span class="va">em_obj</span> <span class="op">%&gt;%</span> </span>
+<div class="sourceCode" id="cb33"><pre class="downlit sourceCode r code-with-copy"><code class="sourceCode R"><span><span class="va">em_obj</span> <span class="op">%&gt;%</span> </span>
 <span>  <span class="fu">contrast</span><span class="op">(</span>method <span class="op">=</span> <span class="st">"pairwise"</span>, adjust <span class="op">=</span> <span class="st">"none"</span><span class="op">)</span></span></code><button title="In die Zwischenablage kopieren" class="code-copy-button"><i class="bi"></i></button></pre></div>
 <div class="cell-output cell-output-stdout">
 <pre><code> contrast          estimate    SE df t.ratio p.value
- ctrl - roundUp         0.6 0.177 27   3.381  0.0022
- ctrl - killAll         0.6 0.166 27   3.623  0.0012
- roundUp - killAll      0.0 0.235 27   0.000  1.0000</code></pre>
+ ctrl - roundUp         0.4 0.206 27   1.941  0.0627
+ ctrl - killAll         0.4 0.205 27   1.951  0.0615
+ roundUp - killAll      0.0 0.242 27   0.000  1.0000</code></pre>
 </div>
 </div>
 <div class="cell">
-<div class="sourceCode" id="cb32"><pre class="downlit sourceCode r code-with-copy"><code class="sourceCode R"><span><span class="va">em_obj</span> <span class="op">%&gt;%</span></span>
+<div class="sourceCode" id="cb35"><pre class="downlit sourceCode r code-with-copy"><code class="sourceCode R"><span><span class="va">em_obj</span> <span class="op">%&gt;%</span></span>
 <span>  <span class="fu">cld</span><span class="op">(</span>Letters <span class="op">=</span> <span class="va">letters</span>, adjust <span class="op">=</span> <span class="st">"none"</span><span class="op">)</span></span></code><button title="In die Zwischenablage kopieren" class="code-copy-button"><i class="bi"></i></button></pre></div>
 <div class="cell-output cell-output-stdout">
 <pre><code> trt     emmean    SE df lower.CL upper.CL .group
- killAll    0.4 0.166 27   0.0602    0.740  a    
- roundUp    0.4 0.177 27   0.0358    0.764  a    
- ctrl       1.0 0.000 27   1.0000    1.000   b   
+ roundUp    0.4 0.172 27   0.0465    0.754  a    
+ killAll    0.4 0.173 27   0.0445    0.756  a    
+ ctrl       0.8 0.110 27   0.5748    1.025  a    
 
 Confidence level used: 0.95 
 significance level used: alpha = 0.05 
